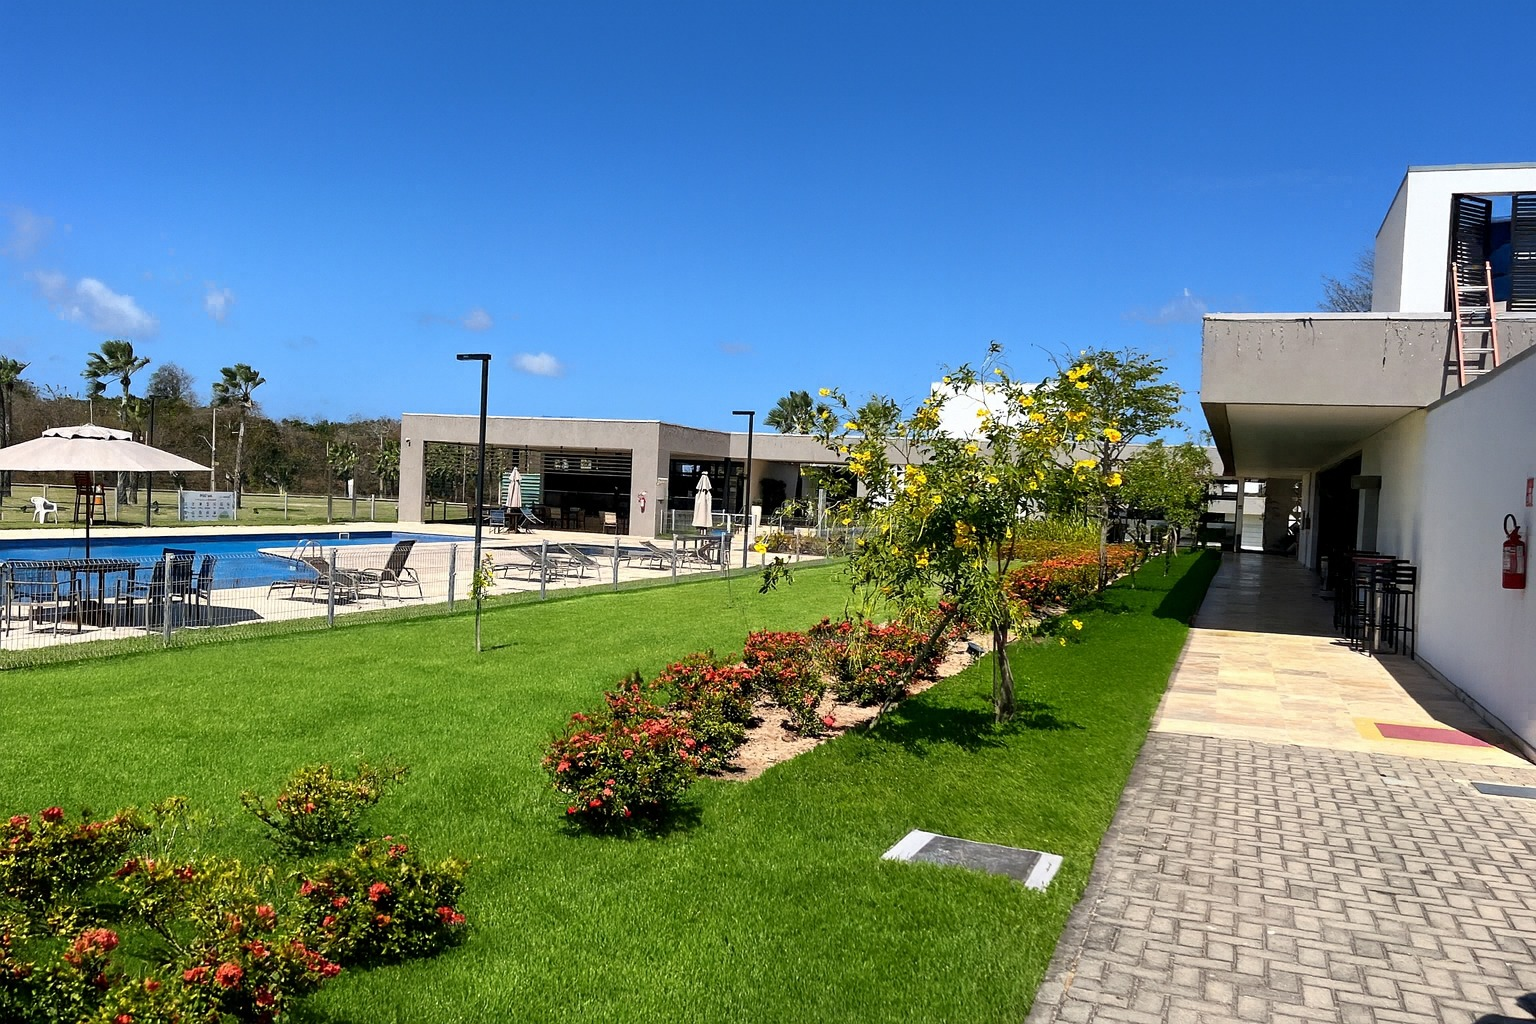
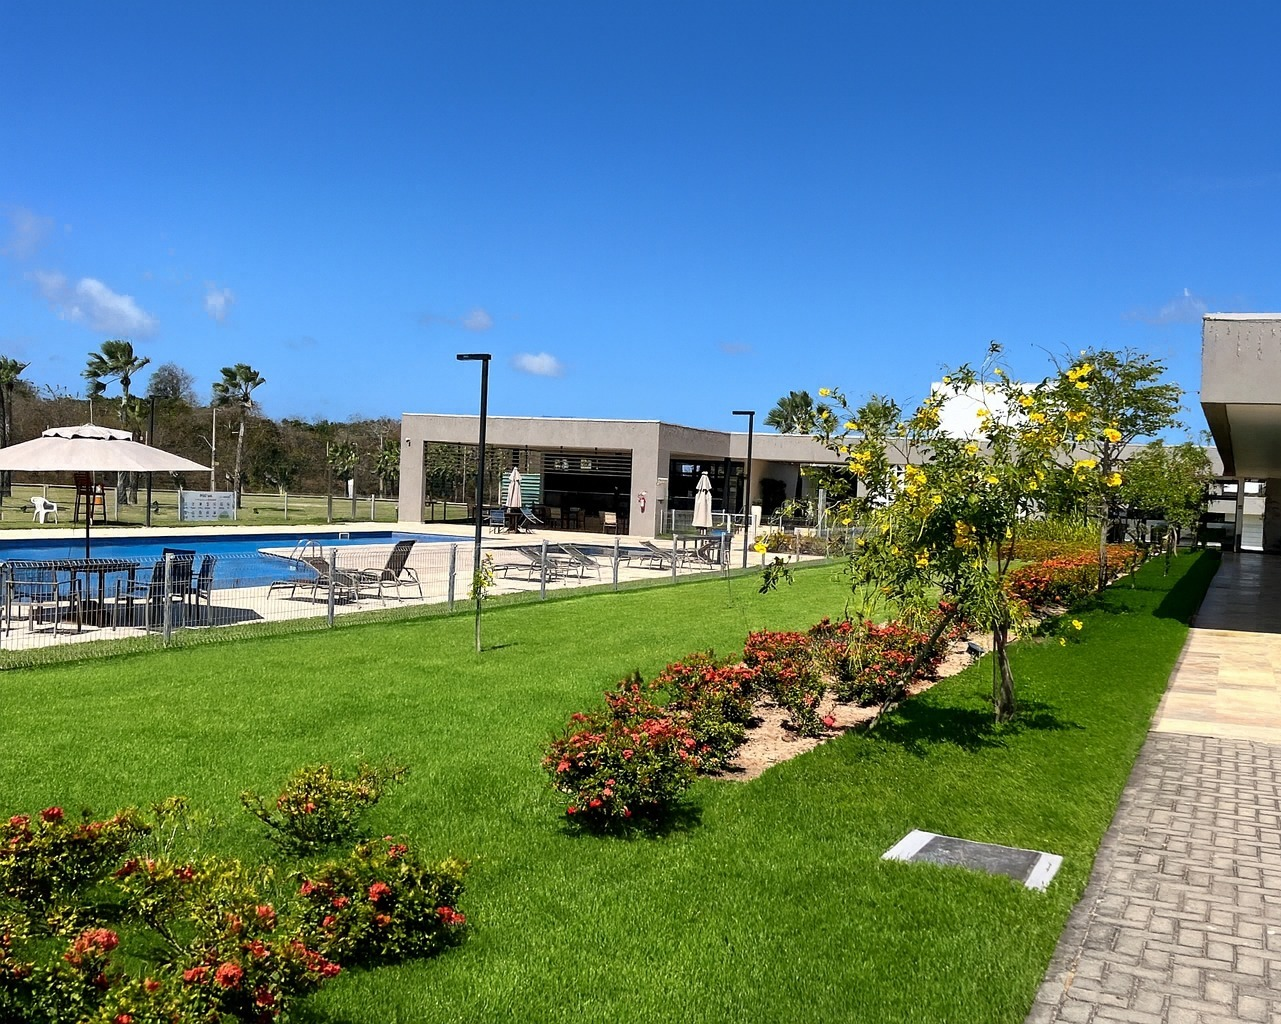
imahens e form

diff --git a/index.html b/index.html
@@ -123,6 +123,9 @@
 
         <section id="about" class="sobre">
             <div class="flex">
+                <div class="img">
+                    <img height="400rem" src="IMAGES/EXTERIOR FRENTE 2.jpg" alt="">
+                </div>
                 <div class="txt">
                     <h2>O que a Casa</h2>
                     <h4>Tem a Oferecer</h4>
@@ -133,9 +136,6 @@
                         <li>Terraço gourmet com churrasqueira e piscina com prainha, ideal para momentos de lazer e relaxamento</li>
                         <li>Garagem coberta para 2 carros, já com infraestrutura para carregamento de veículo elétrico.</li>
                     </ul>
-                </div>
-                <div class="img">
-                    <img height="400rem" src="IMAGES/EXTERIOR FRENTE 2.jpg" alt="">
                 </div>
             </div>
         </section>
@@ -159,6 +159,9 @@
 
         <section id="about" class="sobre">
             <div class="flex">
+                <div class="img">
+                    <img height="400rem" src="IMAGES/Adicionais moverus (1).jpg" alt="">
+                </div>
                 <div class="txt">
                     <h2>Comdidades </h2>
                     <h4>Adicionais</h4>
@@ -168,9 +171,6 @@
                         <li>Fechadura eletrônica com biometria para mais praticidade e segurança.</li>
                         <li>Textura externa em Creata Cinza Tranquilo, que valoriza o design limpo e atemporal.</li>
                     </ul>
-                </div>
-                 <div class="img">
-                    <img height="400rem" src="IMAGES/Adicionais moverus.jpg" alt="">
                 </div>
             </div>
         </section>
@@ -201,6 +201,9 @@
 
         <section id="about" class="sobre">
             <div class="flex">
+                <div class="img">
+                    <img height="400rem" src="IMAGES/ILUMINACAO.jpg" alt="">
+                </div>
                 <div class="txt">
                     <h2>projeto de  </h2>
                     <h4>ilumicacao</h4>
@@ -210,9 +213,6 @@
                         <li>Sistema hidráulico com boiler, preparação para energia solar e automação residencial.</li>
                         <li>Infraestrutura para ar-condicionado em todos os quartos e sala.</li>
                     </ul>
-                </div>
-                 <div class="img">
-                    <img height="400rem" src="IMAGES/ILUMINACAO.jpg" alt="">
                 </div>
             </div>
         </section>
@@ -269,6 +269,9 @@
 
         <section id="about" class="sobre">
             <div class="flex">
+                <div class="img">
+                    <img height="400rem" src="IMAGES/ESPECIAIS.jpg" alt="">
+                </div>
                 <div class="txt">
                     <h2>Condominio </h2>
                     <h4>Especiais</h4>
@@ -278,9 +281,6 @@
                         <li>Salão de jogos climatizado: com mesa de sinuca e diversos jogos para momentos de lazer com amigos e família.</li>
                         <li>Academia de ginástica: totalmente equipada</li>
                     </ul>
-                </div>
-                 <div class="img">
-                    <img height="400rem" src="IMAGES/ESPECIAIS.jpg" alt="">
                 </div>
             </div>
         </section>
@@ -337,7 +337,7 @@
         <section id="about" class="sobre">
             <div class="flex">
                 <div class="img">
-                    <img width="100%" height="400rem" src="IMAGES/EXTERIOR FRENTE 2.jpg" alt="">
+                    <img height="500rem" src="IMAGES/ILUMINACAO.jpg" alt="">
                 </div>
                 <div class="txt">
                     <h2>INVESTIMENTOS</h2>
@@ -355,7 +355,7 @@
 
         <section id="form" class="form">
             <div class="flex1">
-                <form action="https://formspree.io/f/xovbvvnj" method="POST">
+                <form action="https://formspree.io/f/mgvpgkre" method="POST">
                     <h2>CONTATO</h2>
                     <div class="flex2">
                         <input type="text" name="nome" placeholder="Seu Nome" required>
